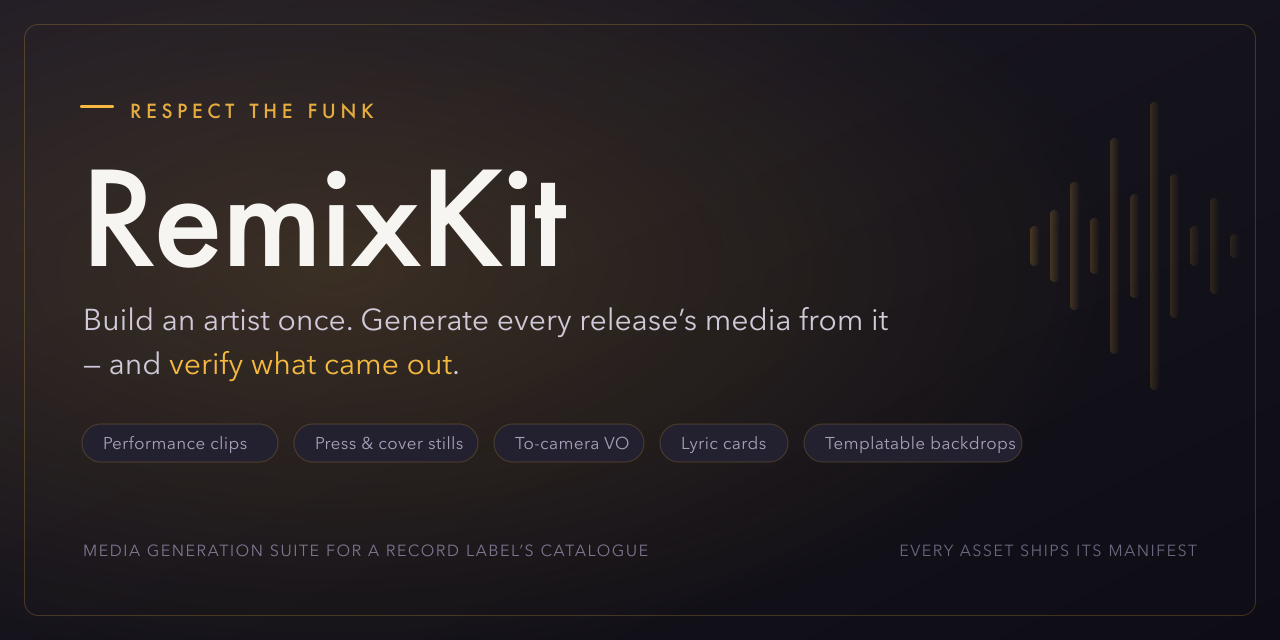
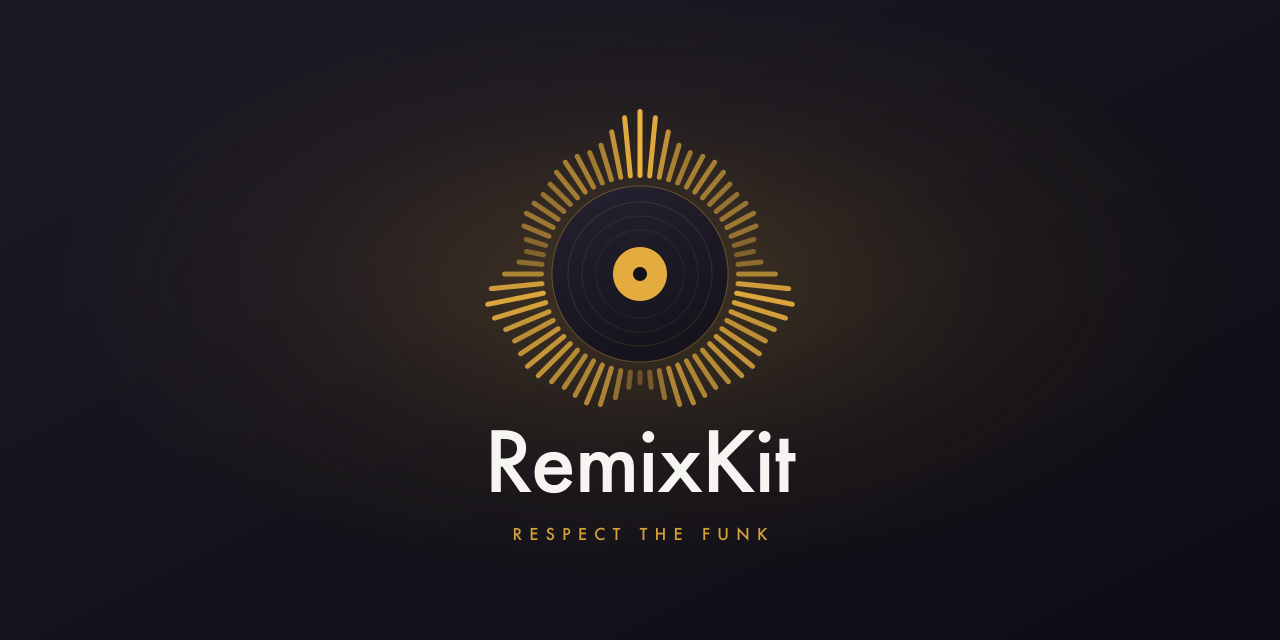
brand: the thumbnail is a mark, not a slide
The first version carried the tagline, five format chips and a provenance line. At the
size a repo listing or a Devpost tile actually renders, none of that was legible — it was
a slide shrunk down, and a slide shrunk down is noise.

So: a centred logo. A record read as a spectrum — grooves inside, waveform radiating out,
gold label at the centre — over the wordmark and four words of kicker. Nothing else.

The 64 bars are generated rather than drawn, and `mark.py` is committed beside the SVG so
they stay maintainable. Symmetry is the reason for cosine harmonics specifically: `cos` is
even, so a bar's height depends only on its angular distance from vertical and the left
half mirrors the right. The first pass used sine harmonics and read as an organic blob
rather than a designed mark. The script reproduces the committed group byte for byte;
everything else in the SVG is still hand-authored and it does not touch it.

What is gone deliberately: the "every asset ships its manifest" line. Shortening it was
not the problem. `manifest.verify()` checks a canonical hash and well-formed per-output
`sha256`, the schema's `signature` field is reserved and unused, and there is no C2PA — so
the honest version of that claim needs a sentence of qualification, and a logo has nowhere
to put one. It belongs in the README and the deck, and `docs/brand/README.md` now records
why it is not here.

628 passed, 2 skipped.

diff --git a/docs/brand/mark.py b/docs/brand/mark.py
@@ -1,0 +1,50 @@
+"""Emit the radial bar group inside `thumbnail.svg`, for pasting back into it.
+
+The 64 bars are the one part of the thumbnail nobody should hand-edit — they are a
+formula, and nudging individual rects would only make the symmetry drift. Everything
+*else* in the SVG is hand-authored and this script does not touch it: run this, paste the
+output over the `<g transform="translate(640, 274)">` group, re-render the PNG.
+
+    python3 mark.py
+
+Symmetry comes from using cosine harmonics only. `cos` is even, so height is a function of
+the angle's distance from vertical and the left half mirrors the right. Integer harmonics
+keep it seamless where the circle wraps at 360 degrees.
+"""
+
+import math
+
+CX, CY = 640.0, 274.0
+R0 = 96.0   # bars start here, just clear of the disc edge at r=88
+N = 64      # bar count
+W = 5.0     # bar width
+
+
+def norm(theta: float) -> float:
+    """Bar height in 0..1 — three cosine harmonics summed into a spectrum."""
+    s = (0.50 * math.cos(3 * theta)
+         + 0.28 * math.cos(7 * theta)
+         + 0.22 * math.cos(11 * theta))
+    return 0.5 + 0.5 * s
+
+
+def main() -> None:
+    print(f'    <g transform="translate({CX:.0f}, {CY:.0f})" fill="#f5b940">')
+    for i in range(N):
+        deg = 360.0 * i / N
+        n = norm(math.radians(deg))
+        height = 15.0 + 54.0 * n
+        # Opacity tracks height so the long bars read as the loud ones.
+        opacity = 0.30 + 0.65 * n
+        # Each bar is authored pointing straight up from the origin and then rotated into
+        # place, so `rotate` does the trigonometry rather than the coordinates.
+        print(
+            f'      <rect x="{-W / 2:.2f}" y="{-(R0 + height):.2f}" '
+            f'width="{W:.2f}" height="{height:.2f}" rx="{W / 2:.2f}" '
+            f'transform="rotate({deg:.3f})" opacity="{opacity:.3f}"/>'
+        )
+    print("    </g>")
+
+
+if __name__ == "__main__":
+    main()

diff --git a/docs/brand/README.md b/docs/brand/README.md
@@ -1,11 +1,12 @@
 # Brand assets
 
-One asset, and the command that makes it.
+The mark, and the commands that make it.
 
 | File | What it is |
 |---|---|
 | `thumbnail.svg` | The source. Hand-authored, no build step — the same rule `docs/deck/` and the landing page follow. |
 | `thumbnail.png` | 1280×640, rendered from the SVG. Committed because GitHub's social preview, Devpost and the deck all want a raster. |
+| `mark.py` | Emits the 64-bar radial group inside the SVG. The one part that is a formula rather than a drawing. |
 
 ## Re-rendering
 
@@ -16,10 +17,27 @@ rsvg-convert -w 1280 -h 640 thumbnail.svg -o thumbnail.png
 `brew install librsvg` if `rsvg-convert` is missing. **Edit the SVG, never the PNG** — the
 PNG is a build output that happens to be checked in.
 
+## The mark
+
+A record read as a spectrum: grooves inside, waveform radiating out, gold label at the
+centre. It is the whole image on purpose — the thumbnail is a logo, not a slide.
+
+The 64 bars are the one part nobody should hand-edit. They come from three summed cosine
+harmonics, and the symmetry is the reason for the choice: `cos` is even, so a bar's height
+depends only on its angular distance from vertical and the left half mirrors the right.
+Nudging individual rects would only make that drift. To change the geometry, edit the
+constants in `mark.py`, run it, and paste the group back:
+
+```bash
+python3 mark.py            # prints the <g transform="translate(640, 274)"> group
+```
+
+Everything else in the SVG is hand-authored and the script does not touch it.
+
 ## Why 1280×640
 
 GitHub's repository social preview is 1280×640. It also survives being cropped to 1200×630
-for Open Graph, because everything load-bearing sits inside the hairline frame.
+for Open Graph, because the mark and the wordmark sit well inside the centre.
 
 ## Type and colour
 
@@ -31,11 +49,17 @@ The fonts are named, not embedded. On a machine without Futura the SVG falls bac
 Avenir Next and then Helvetica Neue, which is why the committed PNG is the artifact anyone
 consuming this should use.
 
-## What the wording is allowed to claim
+## What it says, and what it deliberately does not
 
-The footer reads **"every asset ships its manifest"** rather than anything about signing,
-and that is deliberate. `manifest.verify()` checks a canonical hash and that each declared
-output carries a well-formed `sha256`; the `signature` field in the schema is reserved and
-unused, and there is no C2PA. So the honest claim is that the record of which model made
-what travels *inside the bytes* — which is true, and is the thing `/verify` demonstrates.
-"Tamper-proof" or "cryptographically signed" would not be.
+Two words of text: the wordmark and `RESPECT THE FUNK`. An earlier version carried the
+tagline, the five formats and a provenance line, which made it a slide rather than a mark
+and left it unreadable at the size a repo listing actually shows.
+
+That version also claimed **"every asset ships its manifest"**, and it is worth recording
+why nothing replaced it here rather than simply shortening it. `manifest.verify()` checks
+a canonical hash and that each declared output carries a well-formed `sha256`; the
+schema's `signature` field is reserved and unused, and there is no C2PA. So the strongest
+honest claim is that the record of which model made what travels *inside the bytes* —
+true, and what `/verify` demonstrates, but it needs a sentence of qualification to not
+overstate. A logo has no room for the qualification, so the claim belongs in the README
+and the deck where it can be made properly, and the mark stays a mark.

diff --git a/README.md b/README.md
@@ -1,6 +1,9 @@
 # Respect the Funk / RemixKit
 
-![RemixKit — build an artist once, generate every release's media from it, and verify what came out](./docs/brand/thumbnail.png)
+<p align="center">
+  <img src="./docs/brand/thumbnail.png" width="720"
+       alt="RemixKit — a vinyl record drawn as a radial audio spectrum, over the wordmark RemixKit and the line Respect the Funk">
+</p>
 
 A provenance-clean media generation suite for a record label: register an artist, build
 their identity once, attach songs, generate whatever the release needs — performance
